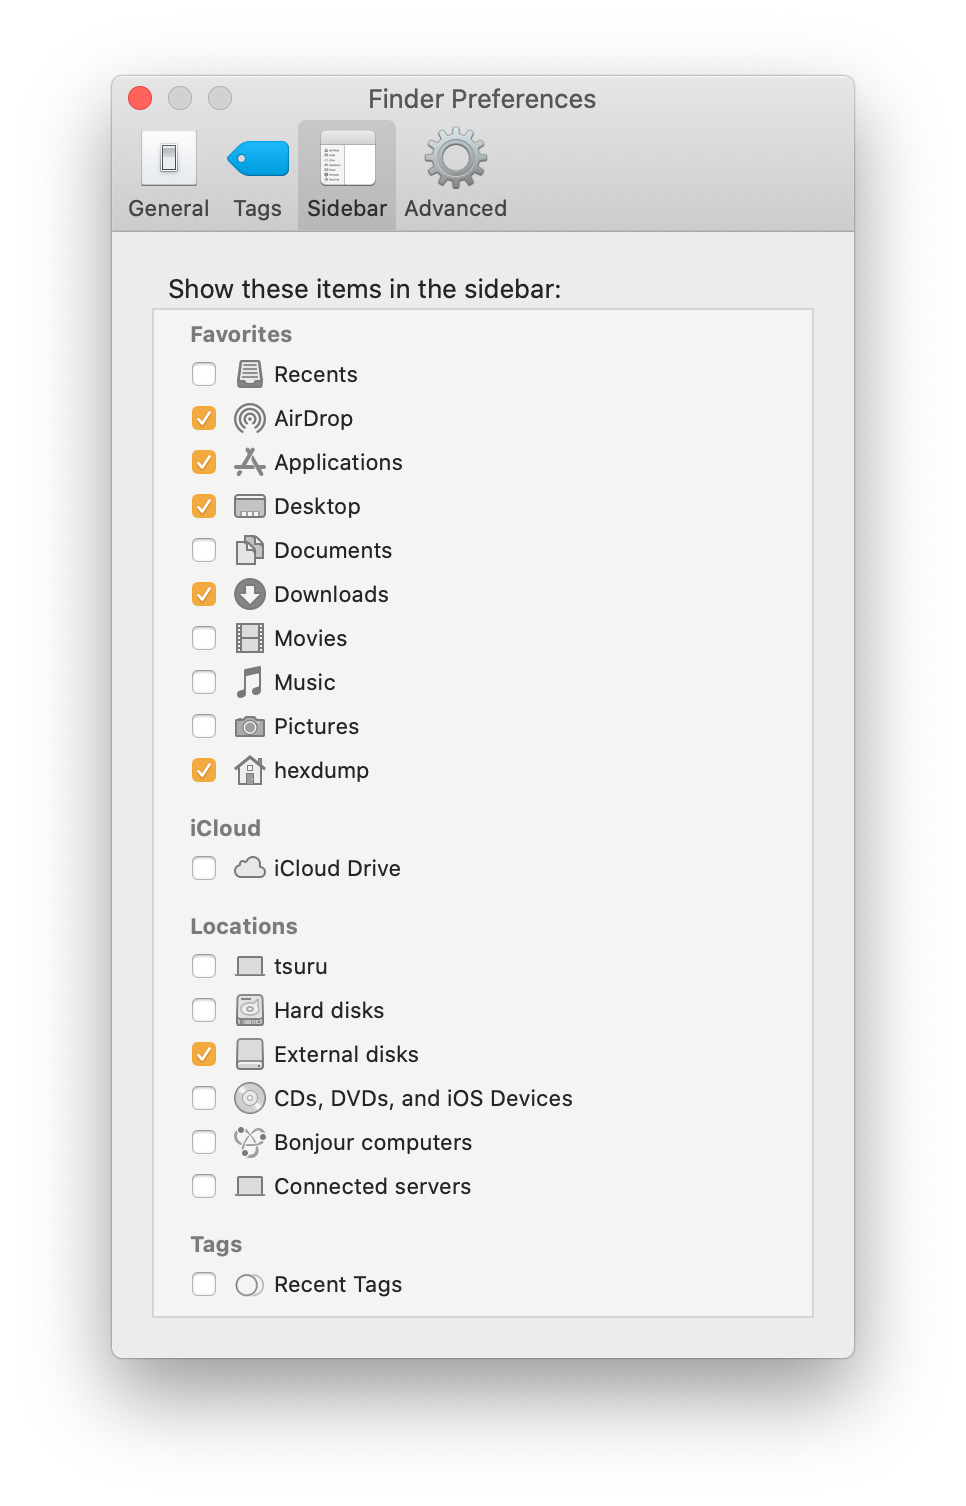
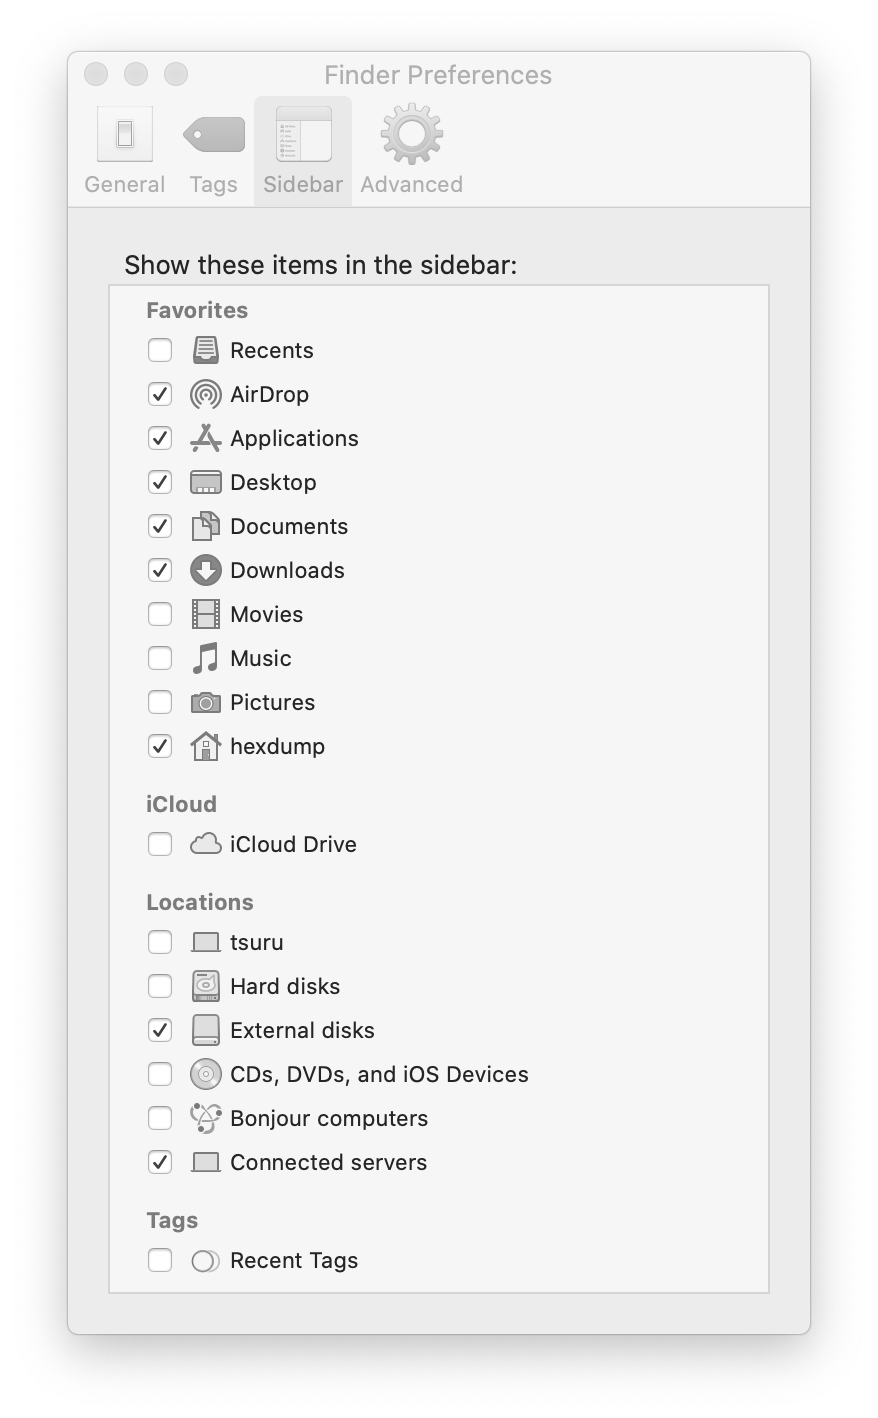
tsuru and uma updates

Changed region(s): [[0.0923, 0.031, 0.9226, 0.9619]]

diff --git a/tsuru-config/README.md b/tsuru-config/README.md
@@ -34,14 +34,14 @@ Choose the `Reinstall MacOS` option on the new disk.
 Since XCode takes a while to download and install, you can run through the `macOS Configuration` concurrently with the `Development Tools` section.
 
 ## Disable unused iCloud services
-Under the `Apple ID` menu in System Preferences, I've disabled the following:
-
-- iCloud Drive
-- News
-- Stocks
-- Home
+Under the `Apple ID` menu in System Preferences, disable all iCloud services except for Mail, Keychain, and Find My Mac.
 
 I accepted the prompts that said I'd lose my data, since I don't have any data in those apps.
+
+## Configure Nextcloud Sync
+In `System Preferences > Internet Accounts`, remove Game Center. Add two accounts through the `+` icon and then the `Add Other Account...` prompt:
+- A CalDAV account at the server address `https://nextcloud.hexdump.cloud/remote.php/dav/principals/users/hexdump` (select the server address with `Account Type > Manual`) and with my Nextcloud credentials. After I added the account I changed the description to `nextcloud` and also enabled Reminders syncing.
+- A CardDAV account also at the server address `https://nextcloud.hexdump.cloud/remote.php/dav/principals/users/hexdump` (select the server address with `Account Type > Manual`) and with my Nextcloud credentials. After I added the account I changed the description to `nextcloud`.
 
 ## Set Accent Color & Miscellany
 
@@ -143,7 +143,7 @@ In Finder's `Preferences > General`, I've configured `New Finder windows show` t
 
 ### `Finder Preferences > Sidebar`
 
-By default, Finder puts a lot of stuff in the sidebar. I like to strip this down to only folders I frequently use: I've unchecked everything but `AirDrop`, `Applications`, `Desktop`, `Documents`, `Downloads`, `lschumm` (my home folder), and `External disks`.
+By default, Finder puts a lot of stuff in the sidebar. I like to strip this down to only folders I frequently use: I've unchecked everything but `AirDrop`, `Applications`, `Desktop`, `Documents`, `Downloads`, `lschumm` (my home folder), `External disks`, and `Connected servers`.
 
 <img alt="The `Finder Preferences > Sidebar` pane open with nothing checked but `AirDrop`, `Applications`, `Desktop`, `Downloads`, `hexdump` (my home folder), and `External disks`." src="images/finder-preferences-sidebar.png" height="600"/>
 
@@ -207,7 +207,6 @@ $ brew install zsh \
                emacs \
                python3 \
                rust \
-               duti \
                cmake \
                moreutils \
                nmap \
@@ -219,7 +218,8 @@ $ brew install zsh \
 Using pip (specifically `pip3`), install the following:
 
 ```bash
-$ sudo pip3 install ptpython
+$ sudo pip3 install ptpython \
+                    virtualenv
 ```
 
 ## Userland Applications
@@ -242,16 +242,16 @@ $ brew cask install telegram \
                     alfred \
                     yed \
                     arduino \
-		    discord \
-		    java
+		                discord \
+		                java \
+		                libreoffice
 ```
 
 I then install Pages, Numbers, and Keynote from the Mac App Store.
 
-## Set Tor Browser as the Default Browser
+## Set Firefox as the Default Browser
 
-In `System Preferences > General`, set the default browser to `Tor Browser.app`.
-
+In `System Preferences > General`, set the default browser to `Firefox.app`.
 
 ## Set up Git credentials
 
@@ -301,11 +301,17 @@ Then, link your SSH key up to GitHub/VPSes/wherever else you use SSH authenticat
 
 ## Opening Terminal-Based Emacs on Files
 
+I sometimes use Finder to browse through my filesystem, and I also use the `open` command to open files. Both of these use macOS' built-in file type resolution that picks an appropriate application to open the selected files. Since I like using terminal-based emacs instead of a native emacs GUI, I need to create a custom wrapper with a shell script with which to open files.
+
+Open Automator and create a new Application:
+
 ![The opening screen of Automator open, with the type of document chosen to be `Application`.](images/automator-terminal-emacs-hook-1.png)
+
+Then add a `Run AppleScript` action:
 
 ![Automator open, with the `Actions` search field filled in with `applescript`, and the single result `Run AppleScript` showing.](images/automator-terminal-emacs-hook-2.png)
 
-![The Automator `Run AppleScript` Action with the script below filled in.](images/automator-terminal-emacs-hook-3.png)
+Fill in the following code:
 
 ```applescript
 on run {input, parameters}
@@ -317,7 +323,9 @@ on run {input, parameters}
 end run
 ```
 
-Save this as `cli-emacs-hook.app` in `Applications`.
+![The Automator `Run AppleScript` Action with the script below filled in.](images/automator-terminal-emacs-hook-3.png)
+
+Save this as `emacs-cli-hook.app` in `Applications`. Instructions to configure the default applications to open apps are in `duti-config`.
 
 ## Disable Gatekeeper
 
@@ -329,4 +337,12 @@ $ sudo spctl --master-disable
 
 ## Install office apps
 
-Install Pages, Numbers, and Keynote from the macOS app store.
+Install Pages, Numbers, and Keynote from the macOS app store to supplement LibreOffice.
+
+## Disable writing .DS_Store files to network shares
+
+It's absolutely ridiculous that Finder does this by default, but here's how to disable it:
+
+```bash
+$ defaults write com.apple.desktopservices DSDontWriteNetworkStores true
+```

diff --git a/tsuru-config/duti-config/README.md b/tsuru-config/duti-config/README.md
@@ -1,4 +1,4 @@
-# macOS-config > duti-config
+# duti-config
 
 `duti` is software for macOS that can set the application set to open
 specific file types. Since I use Finder double-clicking and the macOS
@@ -17,19 +17,19 @@ $ brew install duti
 `duti` requires the bundle ID for applications it binds to filetypes.
 These bundle IDs can rather easily be found; either through:
 
-```shell
+```bash
 $ osascript -e 'id of app "SomeApp"'
 ```
 
 or
 
-```shell
+```bash
 $ mdls -name kMDItemCFBundleIdentifier -r SomeApp.app
 ```
 
 A valid bundle identifier should (very roughly) look like:
 
-```shell
+```bash
 $ com.apple.automator.emacs-cli-hook
 ```
 
@@ -55,4 +55,6 @@ $ sh duti-bulk-map.sh com.apple.automator.emacs-cli-hook code-file-extensions.tx
 
 I've included a file named `code-file-extensions.txt` which contains
 a big list of file extensions for code files. I'm definitely missing
-many, so if your favorite extension is missing, *please* make a PR!
+many, so if your favorite extension is missing, please make a PR!
+
+I use `duti-bulk-map.sh` to bind `emacs-cli-hook` to all code file extensions, and manually bind Typora (`abnerworks.Typora`) to `.md`, `.rst`, and `.txt` files.

diff --git a/tsuru-config/backup-github-config/README.md b/tsuru-config/backup-github-config/README.md
@@ -1,0 +1,12 @@
+# backup-github
+
+I typically have most of my GitHub repositories cloned, but just in case I don't I set up a script that backs them all up to my computer and keeps them up to date.
+
+First, set up a folder in which to store the backup-github script as well as the backed up repositories. I chose `/Users/hexdump/github-backups`, and placed `backup-github.sh` in this directory. In the script I set the `USERNAME` and `API_KEY` variables to my GitHub credentials. I ran this script one time to make sure it would run correctly without my supervision.
+
+Then, I used [this site](http://launched.zerowidth.com) to generate a launchd service to run this script daily. I saved this service in the file `com.hexdump.config.backup-github.plist` (which contains a path to `github-backups.sh`) in `~/Library/LaunchAgents`. I then loaded the service with the following command:
+
+```bash
+launchctl load -w ~/Library/LaunchAgents/com.hexdump.config.backup-github.plist
+```
+

diff --git a/README.md b/README.md
@@ -13,7 +13,8 @@ those directories.
 
 When the installation has multiple levels of specificity (e.g., 
 setting up bash completions on macOS), there will be `*-config` folders
-inside `*-config` folders.
+inside `*-config` folders. To complete setup in a specific directory,
+make sure to check all the `*-config` folders.
 
 ## Licensing
 

diff --git a/uma-config/README.md b/uma-config/README.md
@@ -27,3 +27,5 @@
 ```
 $ sudo pip3 install virtualenv
 ```
+
+pacman -S moreutils
